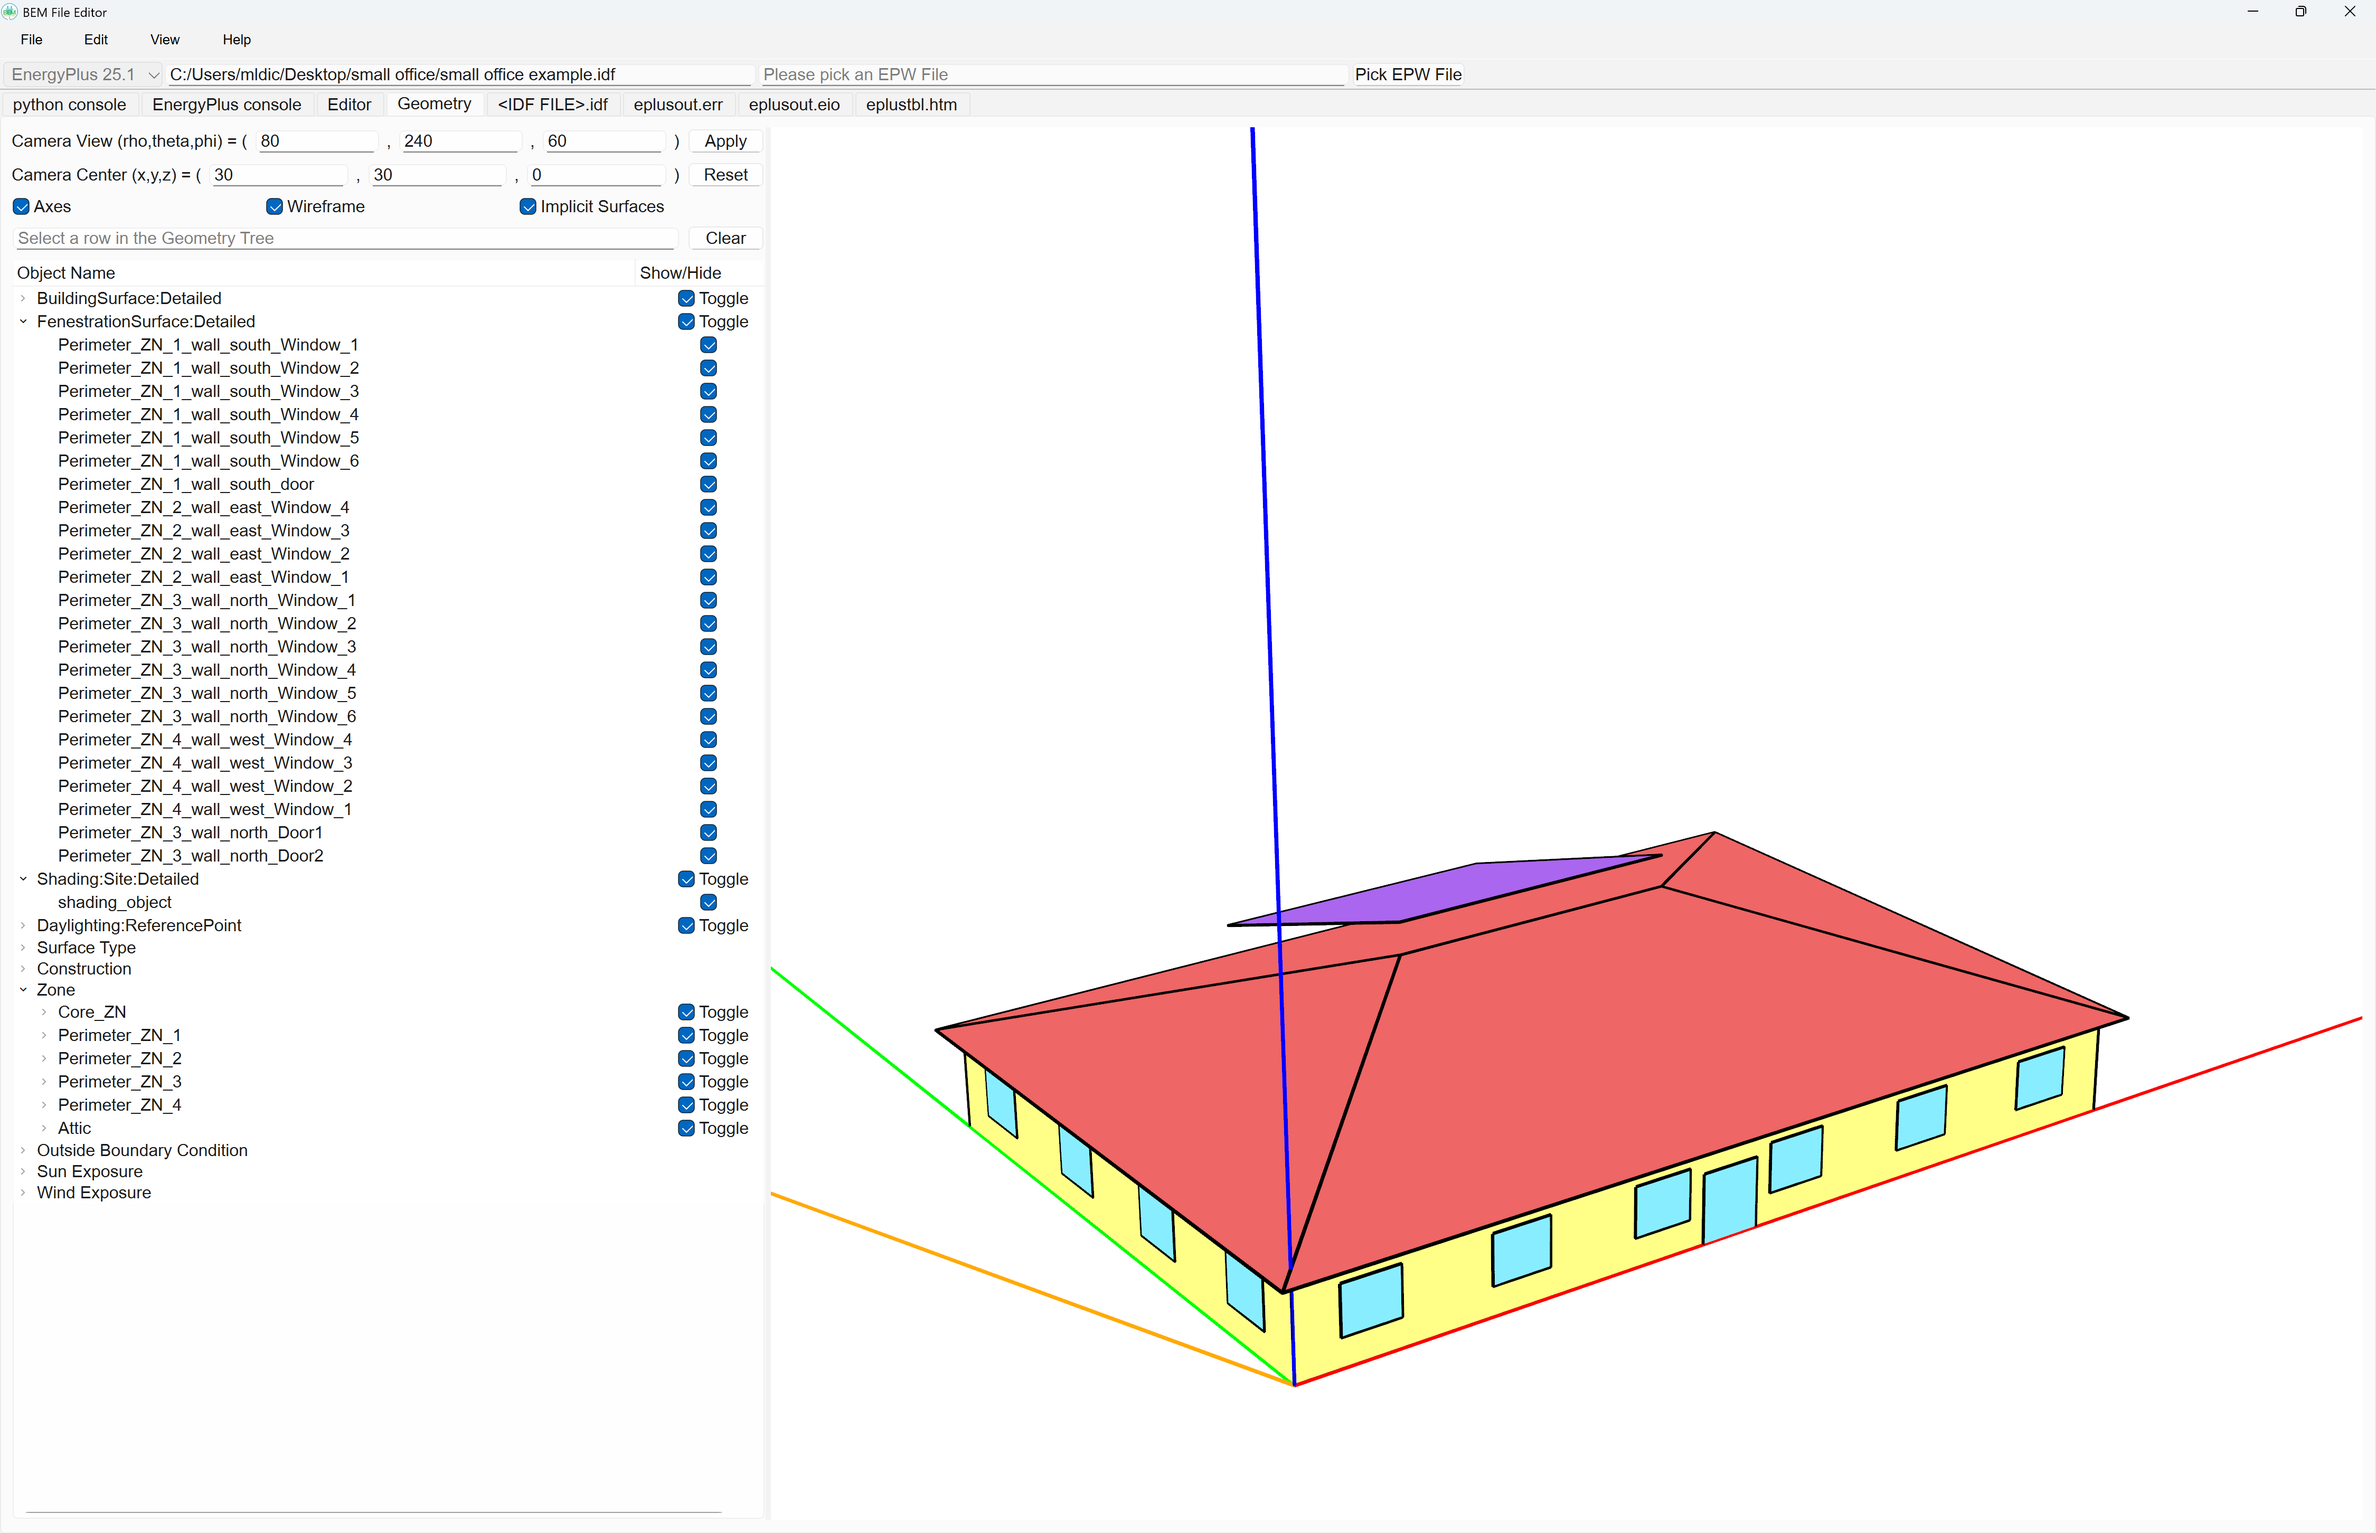
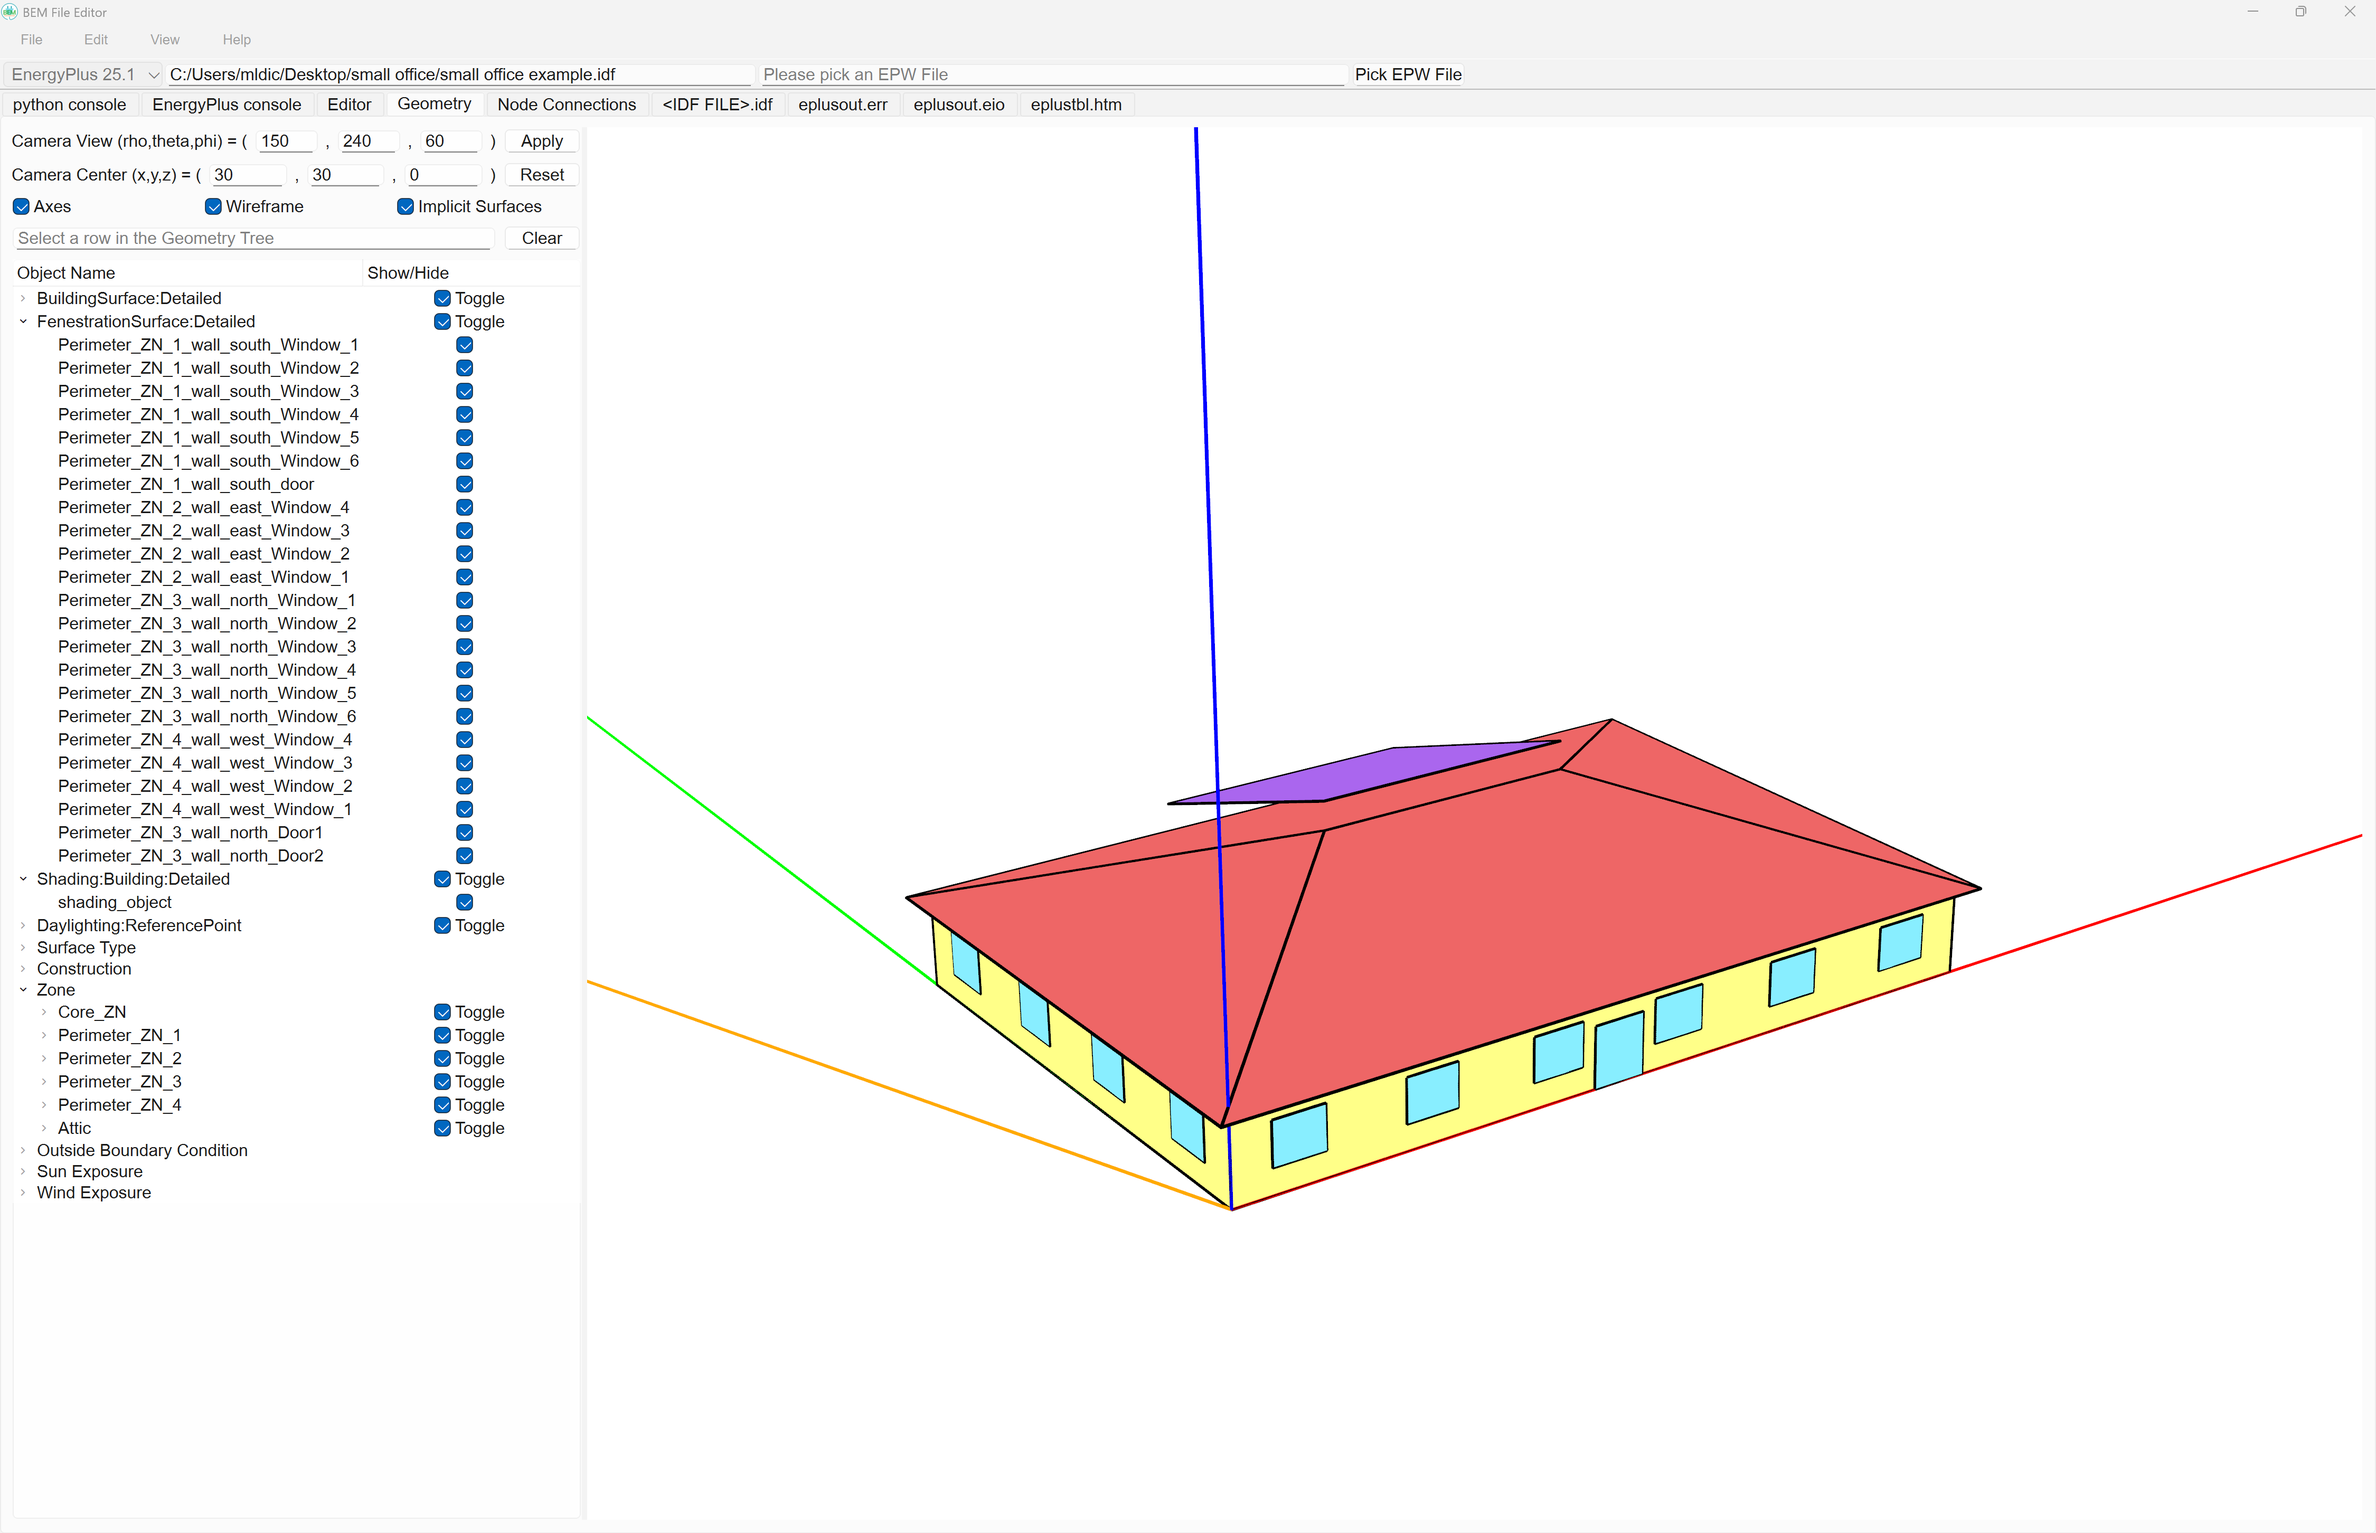
update webpage

diff --git a/docs/index.html b/docs/index.html
@@ -172,29 +172,15 @@ hr {
   padding-bottom: 0.2em;
 }
 
-#downloads_licenses_acknowledgments_left_column {
-  float: left;
-  width: 30%;
+.downloads_table {
+  border-collapse: collapse;
   
-  margin-left: 10%;
-  padding-right: 5%;
-  border-right: 5px solid #AADADF;
-}
-
-#downloads_licenses_acknowledgments_right_column {
-  float: left;
-  width: 49%;
   margin-left: 5%;
+  margin-right: 5%;
 }
 
-.downloads_licenses_acknowledgments_indented_content {
-  padding-left: 1em;
-}
-
-#downloads_licenses_acknowledgments_container:after {
-  content: "";
-  display: table;
-  clear: both;
+.downloads_divider {
+  border-right: 5px solid #AADADF;
 }
 
 .inline_youtube_icon {
@@ -292,25 +278,6 @@ hr {
     width: 100%;
   }
   
-  #downloads_licenses_acknowledgments_left_column {
-    float: none;
-    width: 100%;
-    
-    margin-left: 0%;
-    padding-right: 0%;
-    border-right: 0px solid #AADADF;
-  }
-
-  #downloads_licenses_acknowledgments_right_column {
-    float: none;
-    width: 100%;
-    margin-left: 0%;
-  }
-  
-  .downloads_licenses_acknowledgments_indented_content {
-    padding-left: 0em;
-  }
-  
   .youtube_channel_screenshot_div {
     margin-left: 0%;
   }
@@ -366,25 +333,6 @@ hr {
   #tabs_and_features_right_column {
     float: none;
     width: 100%;
-  }
-  
-  #downloads_licenses_acknowledgments_left_column {
-    float: none;
-    width: 100%;
-    
-    margin-left: 0%;
-    padding-right: 0%;
-    border-right: 0px solid #AADADF;
-  }
-
-  #downloads_licenses_acknowledgments_right_column {
-    float: none;
-    width: 100%;
-    margin-left: 0%;
-  }
-  
-  .downloads_licenses_acknowledgments_indented_content {
-    padding-left: 0em;
   }
   
   .youtube_channel_screenshot_div {
@@ -532,6 +480,7 @@ window.onload = function() {
         <hr class="tabs_and_features_hr">
         <span class="text_font">
           <ul>
+            <!--<li><b>Cross-Platform</b> - Installers for Windows, macOS, and Ubuntu. Can also be run with Python directly.</li>-->
             <li><b>Multiple EnergyPlus Versions</b> - A single installation can open multiple EnergyPlus IDF versions via a simple drop down menu to choose the version number.</li>
             <li><b>BSD 3-Clause License</b> - Free open-source permissive license similar to the EnergyPlus license.</li>
             <li><b>Modern User Interface</b> - Vector graphics based fonts, choice of font family, and  font point size.</li>
@@ -707,66 +656,62 @@ window.onload = function() {
   </span>
   <hr class="short_hr">
   
-  <div id="downloads_licenses_acknowledgments_container">
-    <div id="downloads_licenses_acknowledgments_left_column">
-      <br>
-      
-      <span class="subtitle_font">
-        Installers for Version 1.4.0
-      </span>
-      
-      <br>
-      
-      <table class="text_font">
-        <tr>
-          <td>&nbsp;</td>
-          <td>&nbsp;</td>
-        </tr>
-        <tr>
-          <td rowspan="2" class="installers_td"><img src="Microsoft_logo.svg" alt="Windows logo" class="installers_os_img"></td>
-          <td class="installers_td">Windows 11 x86_64</td>
-        </tr>
-        <tr>
-          <td class="installers_td"><a href="https://github.com/BEMinstructionals/BEMinstructionals.github.io/releases/download/v1.4.0/BEM-File-Editor-Setup.exe" target="_blank" class="text_anchors">BEM-File-Editor-Setup.exe</a></td>
-        </tr>
-        <tr>
-          <td>&nbsp;</td>
-          <td>&nbsp;</td>
-        </tr>
-      </table>
-      
-      <br>
-      <br>
-      <br>
-      <br>
-      <br>
-      <br>
-    </div>
+  <table class="text_font downloads_table">
+    <tr>
+      <td></td>
+      <td class="downloads_divider">&nbsp;</td>
+      <td></td>
+    </tr>
     
-    <div id="downloads_licenses_acknowledgments_right_column">
-      <br>
+    <tr>
+      <td colspan="2" class="downloads_divider" style="width:45%;">
+        <span class="subtitle_font">
+          Installer for Version 1.4.0
+        </span>
+      </td>
       
-      <div class="text_font downloads_licenses_acknowledgments_indented_content">
+      <td style="width: 5%;"></td>
+      
+      <td>
         <span class="subtitle_font">
           Run using Python without Installing
         </span>
-        
+      </td>
+    </tr>
+    
+    <tr >
+      <td rowspan="2" class="" style="text-align: right; vertical-align: top; padding-top: 1em;"><img src="Microsoft_logo.svg" alt="Windows logo" class="installers_os_img"></td>
+      <td class="downloads_divider" style="vertical-align: top; padding-left: 1em; padding-top: 1em;">
+        Windows 11 x86_64<br>
+        <a href="https://github.com/BEMinstructionals/BEMinstructionals.github.io/releases/download/v1.4.0/BEM-File-Editor-Setup.exe" target="_blank" class="text_anchors">BEM-File-Editor-Setup.exe</a>
+      </td>
+      
+      <td></td>
+      
+      <td rowspan="2" style="padding-left: 1em;">
+        <a href="https://github.com/BEMinstructionals/BEMinstructionals.github.io/releases/download/v1.4.0/BEM-File-Editor-1.4.0.zip" target="_blank"><img src="zip_icon.webp" alt="zip_icon" class="installers_zip_img"></a> <a href="https://github.com/BEMinstructionals/BEMinstructionals.github.io/releases/download/v1.4.0/BEM-File-Editor-1.4.0.zip" target="_blank" class="text_anchors">BEM-File-Editor-1.4.0.zip</a>
         <br>
-        
-        <div class="text_font downloads_licenses_acknowledgments_indented_content">
-          <a href="https://github.com/BEMinstructionals/BEMinstructionals.github.io/releases/download/v1.4.0/BEM-File-Editor-1.4.0.zip" target="_blank"><img src="zip_icon.webp" alt="zip_icon" class="installers_zip_img"></a> <a href="https://github.com/BEMinstructionals/BEMinstructionals.github.io/releases/download/v1.4.0/BEM-File-Editor-1.4.0.zip" target="_blank" class="text_anchors">BEM-File-Editor-1.4.0.zip</a>
-          <br>
-          This option is useful for users with employers that limit what can be installed on their computer and for uncommon or older operating systems.
-          <ol style="margin: 0px;">
-            <li>Install PySide6 using "pip install pyside6".</li>
-            <li>Run "python main.py" to start the BEM File Editor.</li>
-          </ol>
-          <i>Using Python 3.13 is recommended for compatibility.</i>
-        </div>
-      </div>
-        
-    </div>
-  </div>
+        This option is useful for users with employers that limit what can be installed on their computer and for uncommon or older operating systems.
+        <ol style="margin: 0px;">
+          <li>Install PySide6 using "pip install pyside6".</li>
+          <li>Run "python main.py" to start the BEM File Editor.</li>
+        </ol>
+        <i>Using Python 3.13 is recommended for compatibility.</i>
+      </td>
+      
+    </tr>
+    <tr>
+      <td class="downloads_divider"></td>
+      
+      <td></td>
+    </tr>
+    
+    <tr>
+      <td></td>
+      <td class="downloads_divider">&nbsp;</td>
+      <td></td>
+    </tr>
+  </table>
   
   <br>
   <br>
@@ -833,6 +778,91 @@ window.onload = function() {
   </div>
   
   <br>
+  <br>
+  <br>
+  
+  <!--<table class="youtube_table">
+    <tr>
+      <td class="youtube_td">
+        <span class="subtitle_font">
+          Video Title
+        </span>
+        <a href="https://www.youtube.com/watch?v=RFn8XjhQ8Ik" target="_blank"><img src="template_youtube_thumbnail.jpg" alt="youtube_video_thumbnail" class="youtube_img"></a>
+        <span class="text_font">
+          <ul class="youtube_ul">
+            <li>one descriptor text for the video</li>
+            <li>short line two</li>
+            <li>multiple lines three two peanuts were walking down the street and one was assaulted... peanut</li>
+          </ul>
+        </span>
+      </td>
+      <td class="youtube_td">
+        <span class="subtitle_font">
+          Video Title
+        </span>
+        <a href="https://www.youtube.com/watch?v=RFn8XjhQ8Ik" target="_blank"><img src="template_youtube_thumbnail.jpg" alt="youtube_video_thumbnail" class="youtube_img"></a>
+        <span class="text_font">
+          <ul class="youtube_ul">
+            <li>one descriptor text for the video</li>
+          </ul>
+        </span>
+      </td>
+      <td class="youtube_td">
+        <span class="subtitle_font">
+          Video Title
+        </span>
+        <a href="https://www.youtube.com/watch?v=RFn8XjhQ8Ik" target="_blank"><img src="template_youtube_thumbnail.jpg" alt="youtube_video_thumbnail" class="youtube_img"></a>
+        <span class="text_font">
+          <ul class="youtube_ul">
+            <li>one descriptor text for the video</li>
+            <li>short line two</li>
+            <li>multiple lines three two peanuts were walking down the street and one was assaulted... peanut</li>
+          </ul>
+        </span>
+      </td>
+    </tr>
+    <tr>
+      <td class="youtube_td">
+        <span class="subtitle_font">
+          Video Title
+        </span>
+        <a href="https://www.youtube.com/watch?v=RFn8XjhQ8Ik" target="_blank"><img src="template_youtube_thumbnail.jpg" alt="youtube_video_thumbnail" class="youtube_img"></a>
+        <span class="text_font">
+          <ul class="youtube_ul">
+            <li>one descriptor text for the video</li>
+            <li>short line two</li>
+            <li>multiple lines three two peanuts were walking down the street and one was assaulted... peanut</li>
+          </ul>
+        </span>
+      </td>
+      <td class="youtube_td">
+        <span class="subtitle_font">
+          Video Title
+        </span>
+        <a href="https://www.youtube.com/watch?v=RFn8XjhQ8Ik" target="_blank"><img src="template_youtube_thumbnail.jpg" alt="youtube_video_thumbnail" class="youtube_img"></a>
+        <span class="text_font">
+          <ul class="youtube_ul">
+            <li>one descriptor text for the video</li>
+            <li>short line two</li>
+            <li>multiple lines three two peanuts were walking down the street and one was assaulted... peanut</li>
+          </ul>
+        </span>
+      </td>
+      <td class="youtube_td">
+        <span class="subtitle_font">
+          Video Title
+        </span>
+        <a href="https://www.youtube.com/watch?v=RFn8XjhQ8Ik" target="_blank"><img src="template_youtube_thumbnail.jpg" alt="youtube_video_thumbnail" class="youtube_img"></a>
+        <span class="text_font">
+          <ul class="youtube_ul">
+            <li>one descriptor text for the video</li>
+            <li>short line two</li>
+          </ul>
+        </span>
+      </td>
+    </tr>
+  </table>-->
+  
   <br>
   
   <span class="subtitle_font">
